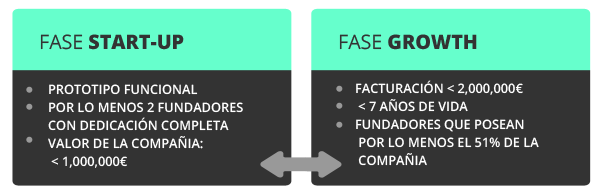
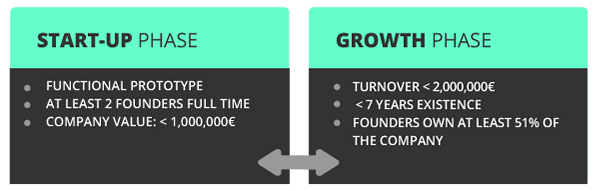
ajustes ingles y 3 gráficos traducidos

diff --git a/en/index.html b/en/index.html
@@ -4,12 +4,12 @@ lang: en
 alt-lang:
 alt-lang-desc: Castellano
 
-menu_que_es: What IMPACT is
+menu_que_es: About IMPACT
 menu_como_funciona: How it works
 menu_equipo: IMPACT Team
-menu_espacios: IMPACT Venues
+menu_espacios: Acceleration Spaces
 menu_hot_news: Hot News
-menu_inscribe: Sign up your project
+menu_inscribe: Submit your Project
 
 hot_news: <strong>Hot News!</strong> En ingles. Esto es un aviso para destacar la <a href="#hot-news" class="alert-link">última Hot New</a>.
 
@@ -66,7 +66,7 @@ O_Siguenos: Follow us in...
 IntroduceEmail: Type your E-mail
 
 titulo_equipo: IMPACT <strong>Team</strong>
-titulo_espacios: IMPACT <strong>Venues</strong>
+titulo_espacios: Acceleration <strong>Spaces</strong>
 
 grafica_requisitos: /img/diapos/en/requisitos/grafica.png
 grafica_seleccion: /img/diapos/en/seleccion/grafico.png
